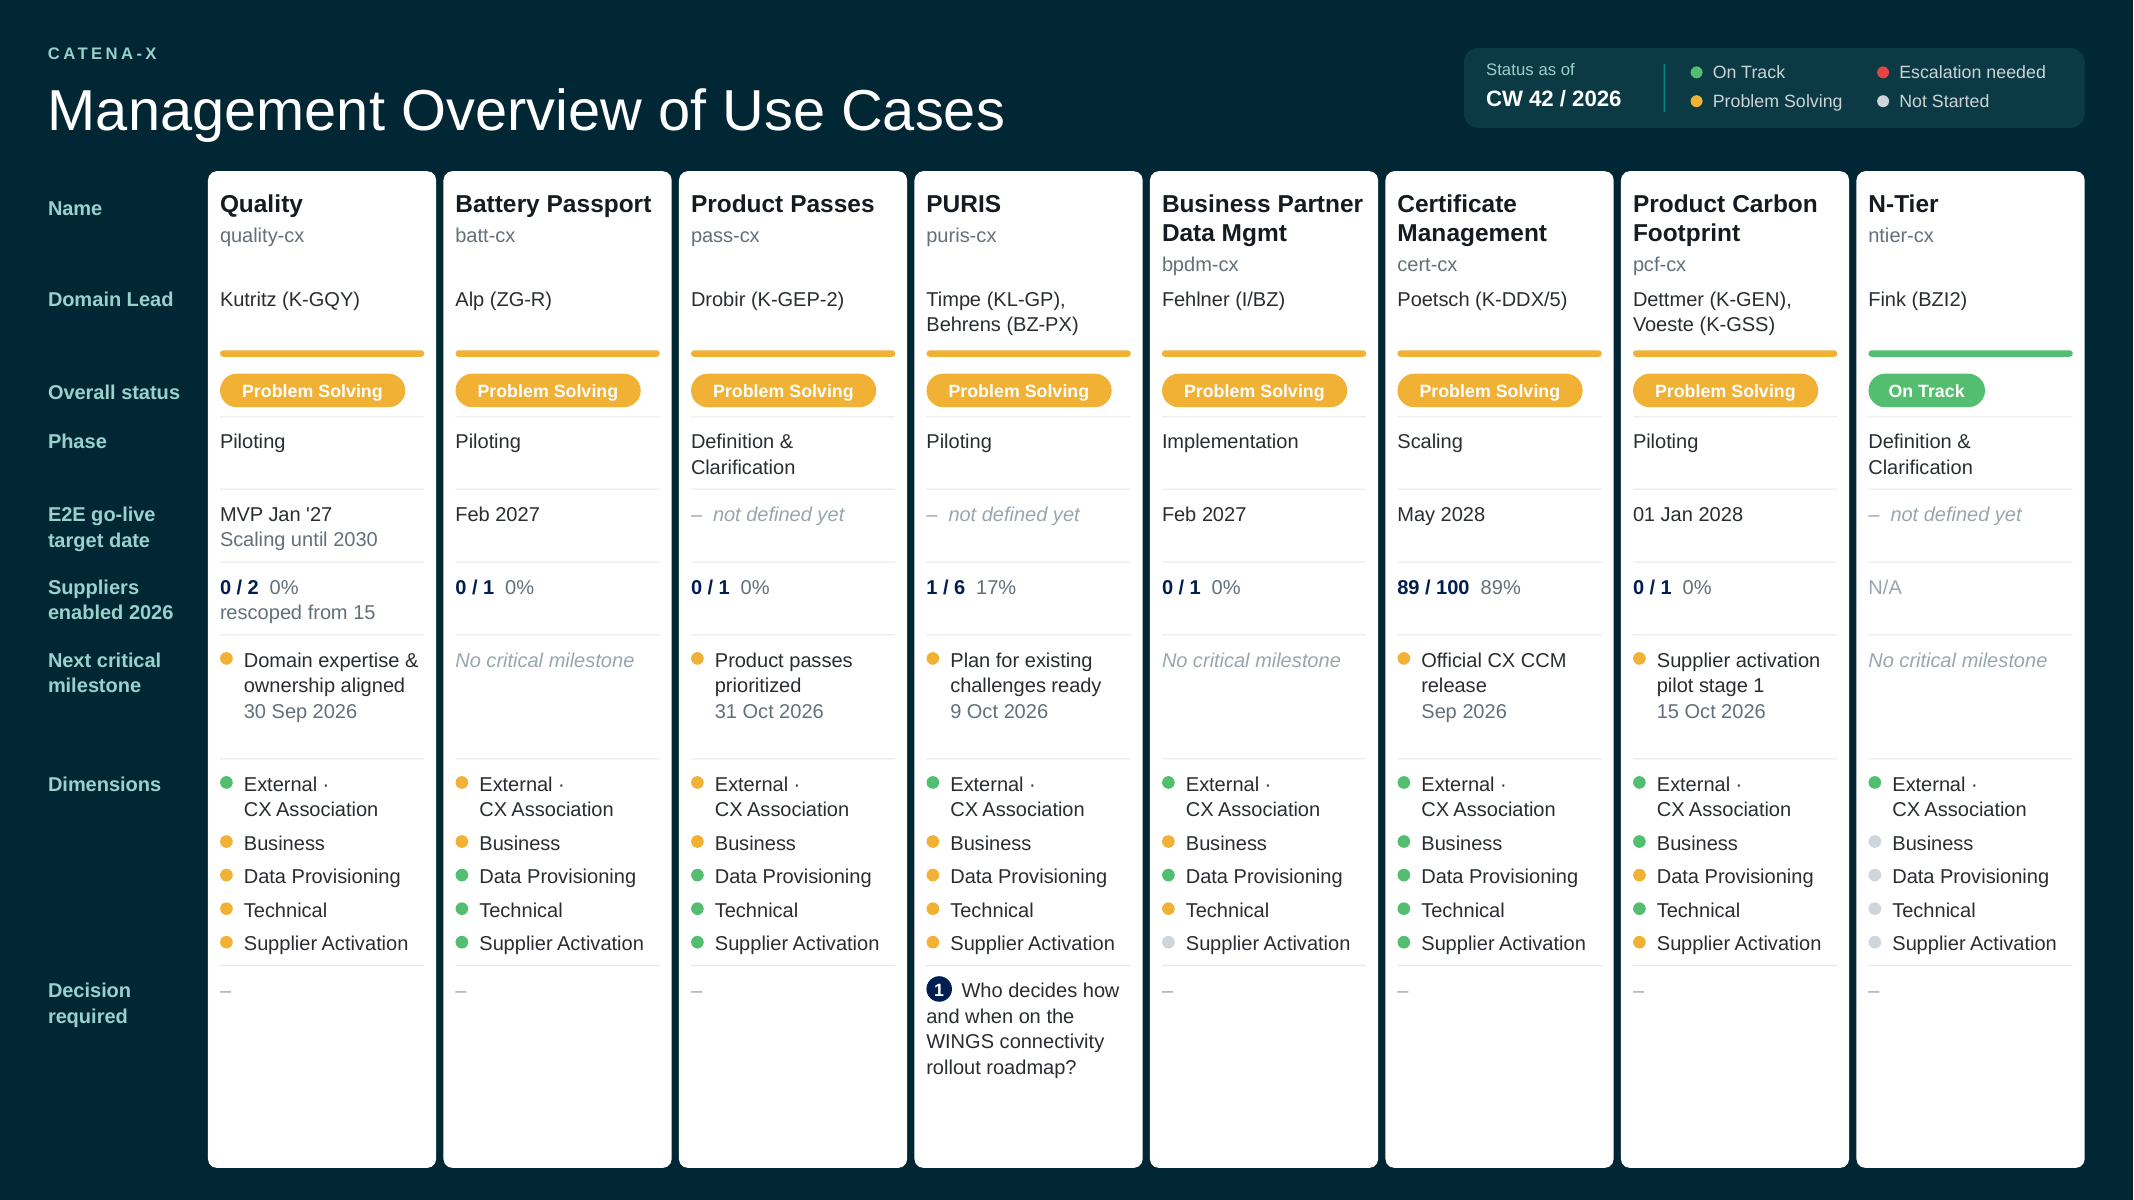
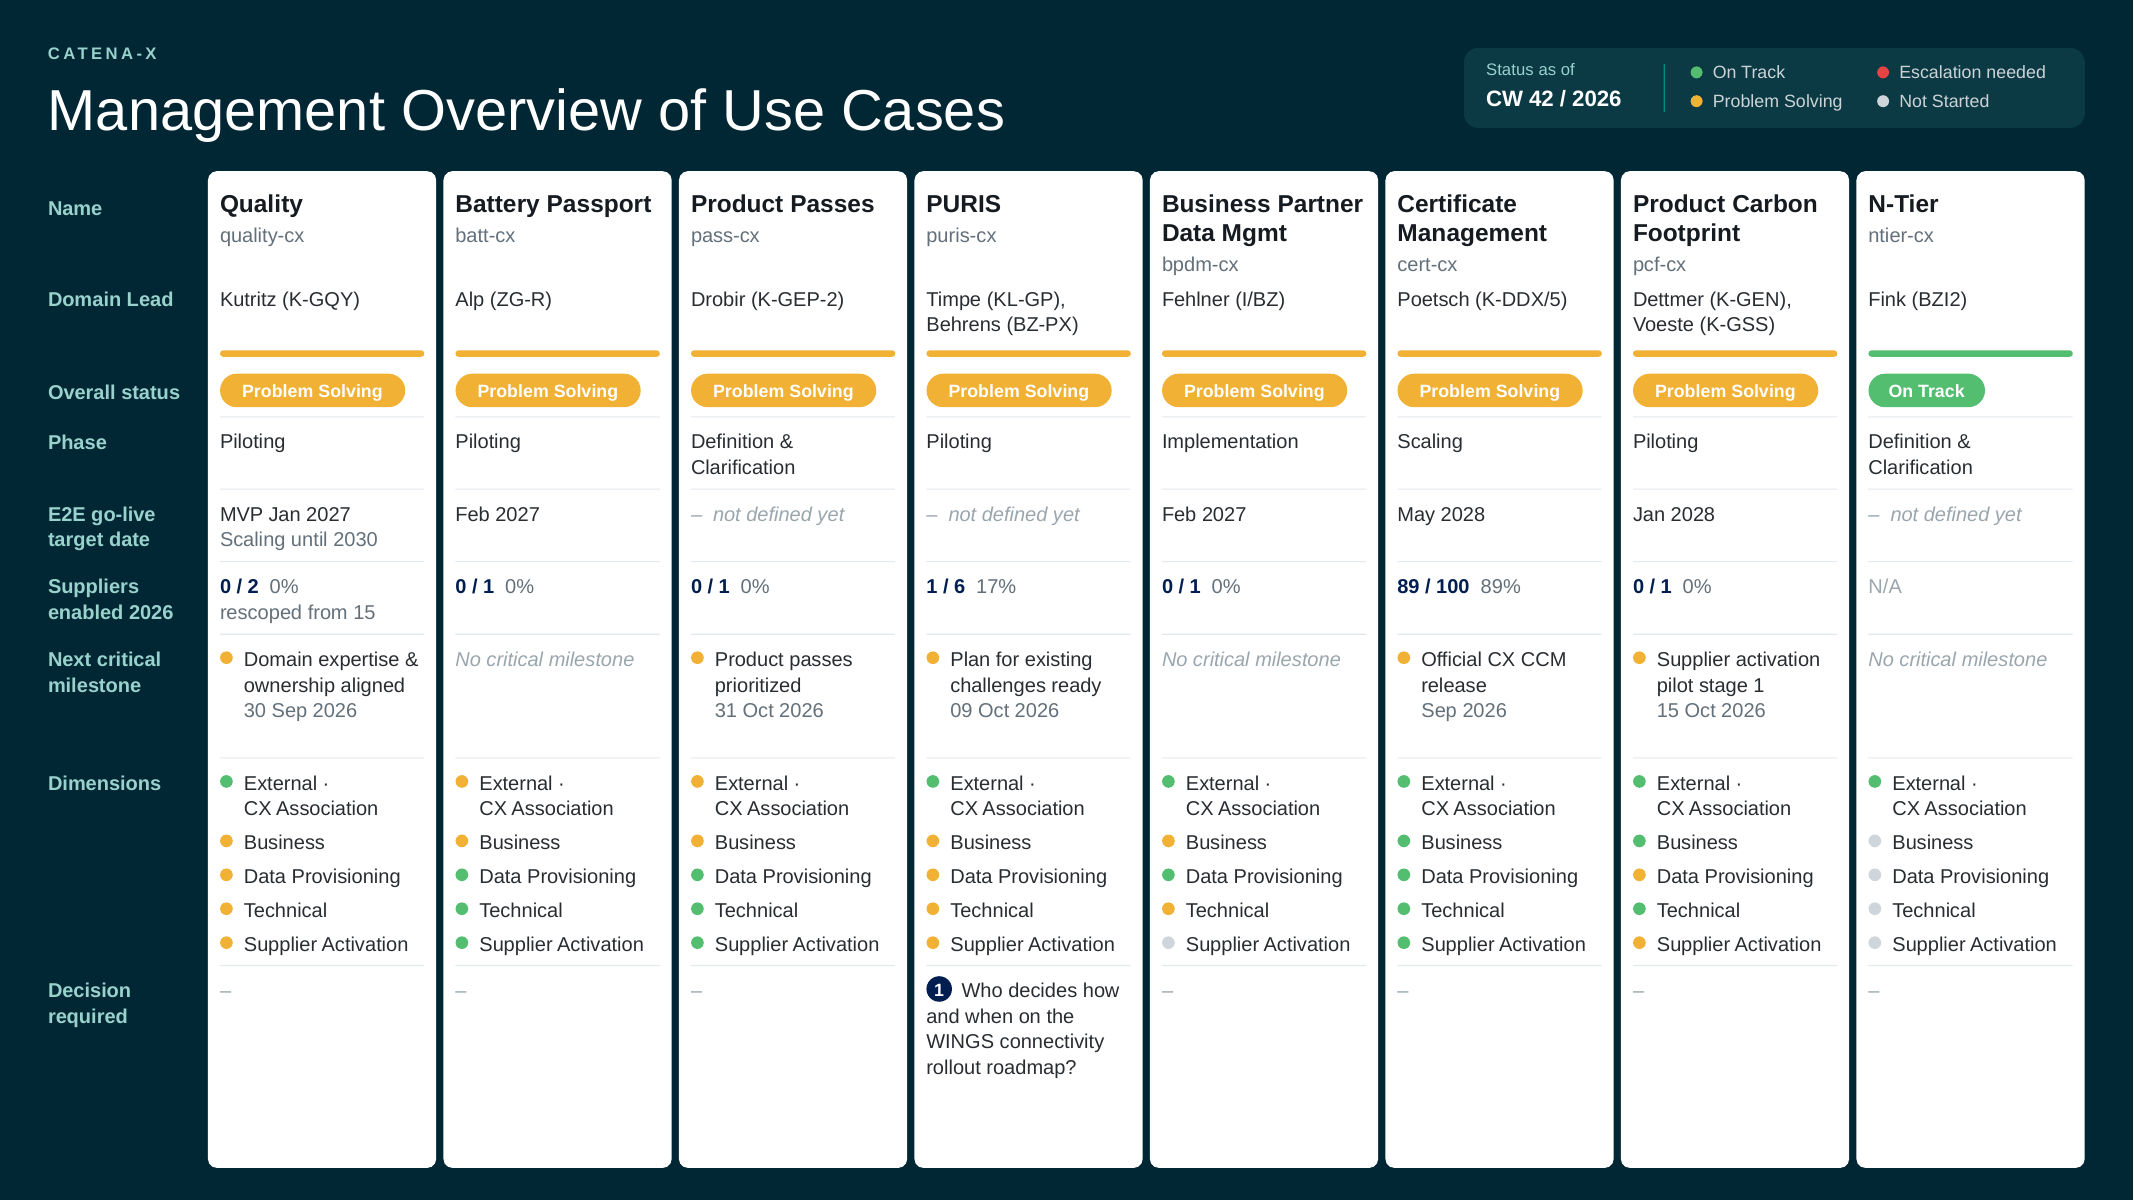
Uniform date formats; dimensions spread over their row height
- Go-live as 'Mon YYYY', milestone dates as 'DD Mon YYYY'
- Leftover height now favours the dimensions row; dimension dots spread
  over the available height

Claude-Session: https://claude.ai/code/session_01CQaEDurRGWu6YUbJ4GCCPu

diff --git a/scripts/build_management_overview.py b/scripts/build_management_overview.py
@@ -27,6 +27,7 @@ OUTPUT = sys.argv[2] if len(sys.argv) > 2 else "output/UseCase_Pulse_Management_
 # ---------------------------------------------------------------- data
 # CW 42 / 2026 PULSE slides (screenshots). PCF colours confirmed by the reporting team (lime green = amber).
 # Content in short business English. Abbreviations lower case.
+# Date formats: go-live "Mon YYYY"; milestones "DD Mon YYYY" (or "Mon YYYY" if the source has no day).
 # ms = next critical milestone: the most critical amber/red milestone (red before amber, then earliest);
 #      None = the timeline has no amber/red milestone.
 # dims = status per dimension, in the order of USE_CASE_DIMS.
@@ -35,7 +36,7 @@ USE_CASE_DIMS = DIM_NAMES + ["Supplier Activation"]
 
 COLUMNS = [  # sorted: Escalation needed -> Problem solving -> On track (no escalation in CW 42)
     dict(name="Quality", abbr="quality-cx", dl="Kutritz (K-GQY)", status="ps", phase="Piloting",
-         go_live=("MVP Jan '27", "Scaling until 2030"),
+         go_live=("MVP Jan 2027", "Scaling until 2030"),
          sup=(0, 2), sup_note="rescoped from 15",
          ms=("ps", "Domain expertise & ownership aligned", "30 Sep 2026"),
          dims=["ok", "ps", "ps", "ps", "ps"]),  # rescope 15 -> 2 decided in CW 41
@@ -48,7 +49,7 @@ COLUMNS = [  # sorted: Escalation needed -> Problem solving -> On track (no esca
          dims=["ps", "ps", "ok", "ok", "ok"]),
     dict(name="PURIS", abbr="puris-cx", dl="Timpe (KL-GP), Behrens (BZ-PX)", status="ps", phase="Piloting",
          go_live=None, sup=(1, 6),
-         ms=("ps", "Plan for existing challenges ready", "9 Oct 2026"),
+         ms=("ps", "Plan for existing challenges ready", "09 Oct 2026"),
          dims=["ok", "ps", "ps", "ps", "ps"],
          decisions=[(1, "Who decides how and when on the WINGS connectivity rollout roadmap?")]),
     dict(name="Business Partner Data Mgmt", abbr="bpdm-cx", dl="Fehlner (I/BZ)", status="ps", phase="Implementation",
@@ -59,7 +60,7 @@ COLUMNS = [  # sorted: Escalation needed -> Problem solving -> On track (no esca
          ms=("ps", "Official CX CCM release", "Sep 2026"),
          dims=["ok", "ok", "ok", "ok", "ok"]),
     dict(name="Product Carbon Footprint", abbr="pcf-cx", dl="Dettmer (K-GEN), Voeste (K-GSS)", status="ps",
-         phase="Piloting", go_live=("01 Jan 2028", None), sup=(0, 1),
+         phase="Piloting", go_live=("Jan 2028", None), sup=(0, 1),
          ms=("ps", "Supplier activation pilot stage 1", "15 Oct 2026"),
          dims=["ok", "ok", "ps", "ok", "ps"]),
     dict(name="N-Tier", abbr="ntier-cx", dl="Fink (BZI2)", status="ok", phase="Definition & Clarification",
@@ -127,7 +128,7 @@ def para_box(s, name, x, top, w, k, paras):
     s.text(name, x, top, w, k * LH + 0.02, paras, anchor="t", line_pts=1150)
 
 
-def cell(key, uc, w, board):
+def cell(key, uc, w, board, row_h=None):
     """Return (content height, draw) for one cell; draw(s, x, top) adds the shapes."""
     n = uc["name"]
 
@@ -203,6 +204,10 @@ def cell(key, uc, w, board):
         items = [(dim, DIM_LINES.get(dim, [dim]), st) for dim, st in zip(board["dims"], uc["dims"])]
         items = [(dim, lines, st, sum(n_lines(t, F, w - DOT_W) for t in lines)) for dim, lines, st in items]
         gap = board.get("dim_gap", 0.05)
+        if row_h:  # spread the dimensions over the row height they were given (up to a comfortable maximum)
+            text_h = sum(k for *_, k in items) * LH
+            free = row_h - GRID["pad_top"] - GRID["pad_bottom"] - text_h
+            gap = min(0.16, max(gap, free / (len(items) - 1)))
 
         def draw(s, x, top):
             y = top
@@ -285,7 +290,7 @@ def add_frame(s, board):
 GRID = dict(top_y=1.07, bottom_y=7.30, label_x=0.30, label_w=0.95, col_x0=1.30, col_x1=13.03, gap=0.045,
             pad=0.075, pad_top=0.07, pad_bottom=0.06)
 # Leftover height: top row / middle band / dimensions / decisions. Decision required only moves down.
-SPARE_SHARE = dict(top=0.5, middle=7, dims=1, dec=0)
+SPARE_SHARE = dict(top=0.5, middle=5, dims=3, dec=0)
 
 
 def card_width(board):
@@ -385,7 +390,7 @@ def build(board=USE_CASE_BOARD, layout=None):
             x = g["col_x0"] + c * (cw + g["gap"]) + g["pad"]
             if key != rows[0][0]:
                 s.shape(f"{uc['name']} Row Divider {title}", x, y, w, 0.007, fill=BORDER)
-            cell(key, uc, w, board)[1](s, x, top)
+            cell(key, uc, w, board, row_h=h if key == "dims" else None)[1](s, x, top)
         y += h
     return s
 
